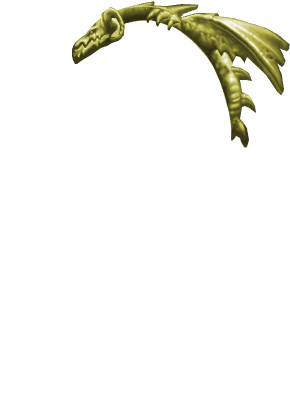
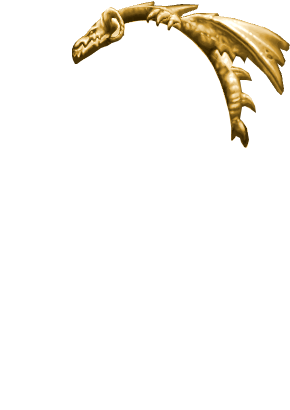
Tweak art for legendary minions in hand

Changed region(s): [[0.2483, 0.0, 1.0, 0.322]]

diff --git a/CHANGELOG.md b/CHANGELOG.md
@@ -9,6 +9,9 @@ This project adheres to [Semantic Versioning](http://semver.org/).
 - Add Quest frame art
 - Support Shifting Blade
 
+### Changed
+- Tweak art for legendary minions in hand
+
 ### Fixed
 - Fix fullscreen callback in Launcher not being called
 
